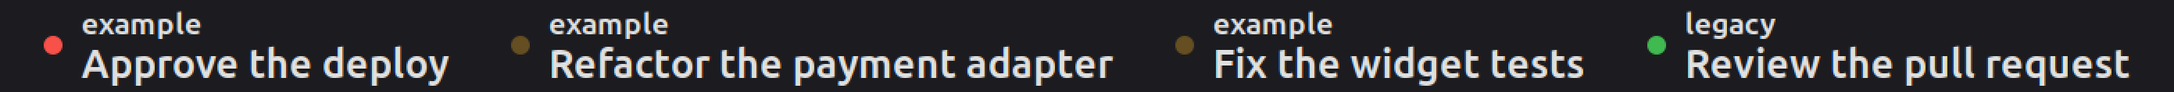
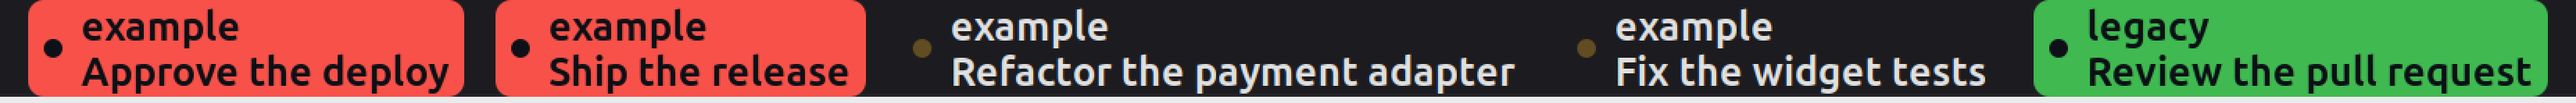
Fill the tiles that need a human
A conversation waiting for a human (a permission request, or a question
offering its choices) now fills its whole tile with the state's red, and an
unread finish with its green, so both are visible from across the room instead
of only carrying a dot. The fill turns the text and the dot dark, since the
panel's light text vanishes on it, and the row keeps its geometry.

The README shot gains an example session blocked by a form question with
choices, so both block kinds and both filled colours are in the image.

diff --git a/opencode-agents@laci/applet.js b/opencode-agents@laci/applet.js
@@ -10,8 +10,9 @@
 // The top line is the project, the bottom line the conversation's subject. The
 // dot carries the state, with the vocabulary and colours of the opencode
 // project studio: red blocked (an agent waits for you), amber working, green
-// finished but not yet acknowledged, grey nothing to do. A working dot pulses;
-// clicking a finished tile acknowledges it and the tile slides away.
+// finished but not yet acknowledged, grey nothing to do. A working dot pulses,
+// a tile that waits for a human burns red and one whose answer nobody has read
+// turns green, and clicking such a tile acknowledges it, so it slides away.
 //
 // The menu has the details (project, agent, model, status, cost) and the
 // per-session actions. See lib/state.js for the dots and lib/monitor.js for the
@@ -46,6 +47,7 @@ const SETTINGS_ICON = "preferences-system-symbolic";
 const SEEN_ICON = "object-select-symbolic";
 const OVERFLOW_STYLE = "opencode-agents-tile-overflow";
 const DOT_STYLE = "opencode-agents-dot";
+const FILLED_STYLE = "opencode-agents-tile-filled";
 const IN_ANIMATION_MS = 250;
 const OUT_ANIMATION_MS = 200;
 const FRAME_MS = 16;
@@ -577,6 +579,7 @@ class OpencodeAgentsApplet extends Applet.Applet {
         this._syncLabel(actor, "_ocSubject", text, wantsSubject ? session.title : null,
             "opencode-agents-tile-subject", 1);
         text.visible = !!(wantsProject || wantsSubject);
+        this._paintTile(actor, state);
     }
 
     // Adds, updates or drops one of a tile's two lines, so a setting change or
@@ -610,8 +613,36 @@ class OpencodeAgentsApplet extends Applet.Applet {
         if (!dot) {
             return;
         }
-        dot.set_style("background-color: " + State.color(state) + "; border-radius: " + (this.dotSize / 2) + "px;");
+        // On a filled tile the dot is the same colour as the fill, so it turns
+        // into the fill's ink instead and stays a visible bullet.
+        let colour = State.fills(state) ? State.ink() : State.color(state);
+        dot.set_style("background-color: " + colour + "; border-radius: " + (this.dotSize / 2) + "px;");
         dot.opacity = 255;
+    }
+
+    // A tile that waits for a human (red) or whose answer nobody has read yet
+    // (green) fills with the state's colour; the stylesheet class rounds the
+    // fill into a pill and the two text lines turn dark, because the panel's own
+    // text is light and would vanish on it. Every other state clears all of
+    // that, so a tile that starts working, is acknowledged or drops to idle goes
+    // back to the panel background.
+    _paintTile(tile, state) {
+        let filled = State.fills(state);
+        tile.set_style(filled ? "background-color: " + State.color(state) + ";" : "");
+        if (filled) {
+            tile.add_style_class_name(FILLED_STYLE);
+        } else {
+            tile.remove_style_class_name(FILLED_STYLE);
+        }
+        let text = tile._ocText;
+        if (!text) {
+            return;
+        }
+        let ink = filled ? "color: " + State.ink() + ";" : "";
+        let lines = text.get_children();
+        for (let i = 0; i < lines.length; i++) {
+            lines[i].set_style(ink);
+        }
     }
 
     // ---- the working pulse ---------------------------------------------

diff --git a/tests/test-lib.js b/tests/test-lib.js
@@ -165,10 +165,24 @@ function testState() {
     equal("state: idle colour", State.color("idle"), "#9b9b9b");
     equal("state: unknown colour falls back to idle", State.color("nonsense"), "#9b9b9b");
     equal("state: labels", State.label("done"), "done");
+    // A tile that needs a human fills (red for a block, green for an unread
+    // finish); work and idle keep the panel background.
+    check("state: an unread finish fills its tile", State.fills("done") === true, "");
+    check("state: a block fills its tile", State.fills("blocked") === true, "");
+    check("state: work and idle keep the panel background",
+        !State.fills("working") && !State.fills("idle"), "");
+    check("state: the ink is dark", /^#[0-9a-f]{6}$/.test(State.ink()) &&
+        parseInt(State.ink().slice(1, 3), 16) < 0x40, State.ink());
 
     let running = [{ id: "a", status: "running" }];
     equal("state: a running session works", State.resolve({}, running, {}).a, "working");
     equal("state: a blocked session", State.resolve({}, [{ id: "a", status: "running", blocked: true }], {}).a, "blocked");
+    // Both ways a human gets asked - a permission request and a question
+    // offering its choices - reach the same red, filled tile.
+    equal("state: a permission block is red",
+        State.fills(State.resolve({}, [{ id: "a", blocked: true, blockedReason: "permission: bash" }], {}).a), true);
+    equal("state: a question with choices is red",
+        State.fills(State.resolve({}, [{ id: "a", blocked: true, blockedReason: "question" }], {}).a), true);
     equal("state: an offline session waits like a blocked one",
         State.resolve({}, [{ id: "a", status: "offline" }], {}).a, "blocked");
     equal("state: a conversation the monitor marked finished is done",
@@ -385,6 +399,9 @@ function testLookAndFeel() {
 
     let applet = readFile(APPLET_DIR + "/applet.js");
     check("look: the applet paints the dot from the state", !!applet && applet.indexOf("State.color") >= 0, "");
+    check("look: an unread finish fills the whole tile",
+        !!applet && applet.indexOf("_paintTile") >= 0 && applet.indexOf("State.fills") >= 0 &&
+        !!css && css.indexOf(".opencode-agents-tile-filled") >= 0, "");
     check("look: the applet pulses the working dot", !!applet && applet.indexOf("pulseOpacity") >= 0 && applet.indexOf("_syncPulse") >= 0, "");
     check("look: the applet keeps two lines per tile", !!applet && applet.indexOf("opencode-agents-tile-project") >= 0 &&
         applet.indexOf("opencode-agents-tile-subject") >= 0, "");

diff --git a/opencode-agents@laci/lib/state.js b/opencode-agents@laci/lib/state.js
@@ -10,7 +10,9 @@
 //
 // Precedence is blocked > working > done > idle, and the colours are the
 // studio's dark-theme ones (--git-deleted / --git-modified / --git-added and
-// its neutral grey), which is what the panel's own dark tone wants.
+// its neutral grey), which is what the panel's own dark tone wants. A blocked
+// tile is filled with that red and a `done` one with the green, so both stand
+// out instead of only carrying a dot.
 //
 // Pure: no Cinnamon, no I/O, so the test suite covers it directly.
 
@@ -30,12 +32,32 @@ var LABELS = {
     idle: "idle",
 };
 
+// The ink a filled tile writes in. The panel's own text is light on the dark
+// theme, which would vanish on a solid status colour, so a filled tile turns
+// dark the way it has to.
+var INK = "#0d1117";
+
 function color(state) {
     return COLORS[state] || COLORS.idle;
 }
 
 function label(state) {
     return LABELS[state] || "idle";
+}
+
+function ink() {
+    return INK;
+}
+
+// Only the states that need a human fill their whole tile with the state's
+// colour: a block, because the agent cannot go on without an answer (a
+// permission request, or a question with its choices), and an unread finish,
+// because the answer arrived while the user was looking elsewhere. Both have to
+// be visible from across the room. Work and idle keep the panel background -
+// the dot says all there is to say about them, and a row of filled working
+// tiles would be a wall of colour that shouts about nothing new.
+function fills(state) {
+    return state === "blocked" || state === "done";
 }
 
 // Rank for sorting: the most actionable first.

diff --git a/opencode-agents@laci/stylesheet.css b/opencode-agents@laci/stylesheet.css
@@ -18,6 +18,14 @@
     border-radius: 50%;
 }
 
+/* A blocked tile (red) and an unread finish (green) fill with the state colour.
+   The applet sets the fill colour and the dark text inline (both follow the
+   state); this class only rounds the fill into a pill, so the highlight reads
+   as one block instead of a rectangle eating into its neighbours. */
+.opencode-agents-tile-filled {
+    border-radius: 5px;
+}
+
 .opencode-agents-tile-text {
     spacing: 0px;
     /* The panel theme centres text; the two lines must start at the same left

diff --git a/README.md b/README.md
@@ -26,6 +26,13 @@ below.
   | 🟢 green | `done` | the turn finished and nobody has looked at it yet |
   | ⚪ grey | `idle` | nothing to do (only the idle icon uses it) |
 
+- **A tile that needs a human fills with its colour** - a conversation waiting
+  for you (a permission request, or a question offering its choices) is painted
+  red across the whole tile, and one whose turn finished and that nobody has
+  looked at yet is painted green, so both are visible from across the room. The
+  amber working tiles keep the panel background: they say all there is to say
+  with their pulsing dot.
+
 - **Project and subject** - the top line is the project the conversation lives
   in (its registered name, else the folder name), the bottom line the
   conversation's subject. A tile widens into the free panel space to show them
